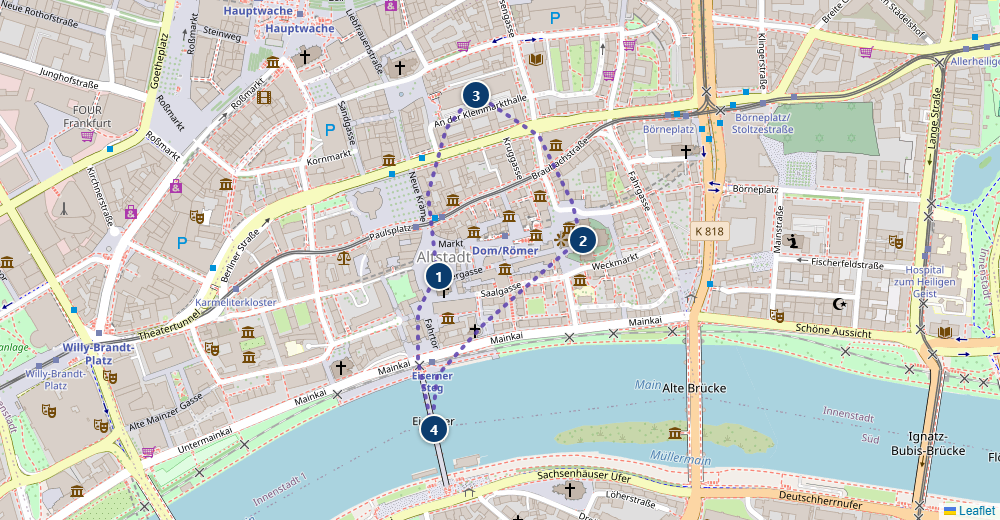
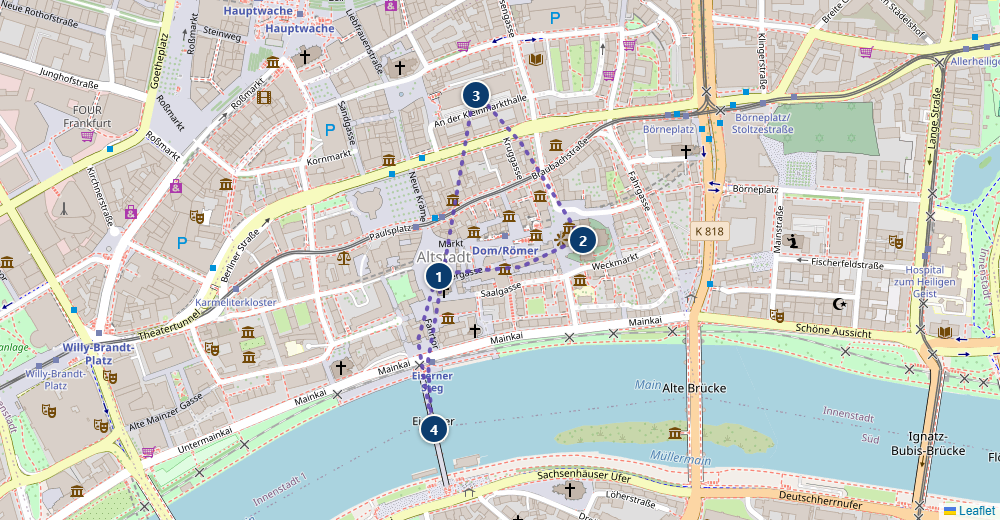
Redraw Frankfurt walking route to fix order mismatch and follow real streets
The old map drew the connecting line in visit order 1->3->2->4->1,
while the route-steps text and numbered pins were 1->2->3->4->1 -
a real mismatch, not just a straight-line issue. Rebuilt the path in
the correct sequential order with waypoints along Braubachstrasse,
Fahrgasse/Toengesgasse, Neue Kraeme, and Fahrtor instead of straight
segments.

diff --git a/germany-roadtrip-planner.html b/germany-roadtrip-planner.html
@@ -4191,7 +4191,7 @@ document.addEventListener('DOMContentLoaded', function(){
       <a class="walk-map-link" href="https://www.google.com/maps/dir/?api=1&travelmode=walking&origin=50.1102,8.6822&destination=50.1102,8.6822&waypoints=50.1107%2C8.6853%7C50.1127%2C8.6830%7C50.1081,8.6821" target="_blank" rel="noopener">📍 Google 지도로 도보 코스 보기(Parkhaus Dom-Römer 출발·도착) · 총 약 1.7km · 도보 약 23분</a>
       <div class="route-snapshot">
         <div class="route-snapshot-media">
-          <img src="images/routes/frankfurt.png?v=3" alt="프랑크푸르트 도보 코스 지도 스냅샷" loading="lazy">
+          <img src="images/routes/frankfurt.png?v=4" alt="프랑크푸르트 도보 코스 지도 스냅샷" loading="lazy">
         </div>
         <ol class="route-steps">
         <li><span class="rs-name">뢰머광장(Parkhaus Dom-Römer 바로 앞)</span></li>

diff --git a/index.html b/index.html
@@ -4191,7 +4191,7 @@ document.addEventListener('DOMContentLoaded', function(){
       <a class="walk-map-link" href="https://www.google.com/maps/dir/?api=1&travelmode=walking&origin=50.1102,8.6822&destination=50.1102,8.6822&waypoints=50.1107%2C8.6853%7C50.1127%2C8.6830%7C50.1081,8.6821" target="_blank" rel="noopener">📍 Google 지도로 도보 코스 보기(Parkhaus Dom-Römer 출발·도착) · 총 약 1.7km · 도보 약 23분</a>
       <div class="route-snapshot">
         <div class="route-snapshot-media">
-          <img src="images/routes/frankfurt.png?v=3" alt="프랑크푸르트 도보 코스 지도 스냅샷" loading="lazy">
+          <img src="images/routes/frankfurt.png?v=4" alt="프랑크푸르트 도보 코스 지도 스냅샷" loading="lazy">
         </div>
         <ol class="route-steps">
         <li><span class="rs-name">뢰머광장(Parkhaus Dom-Römer 바로 앞)</span></li>
